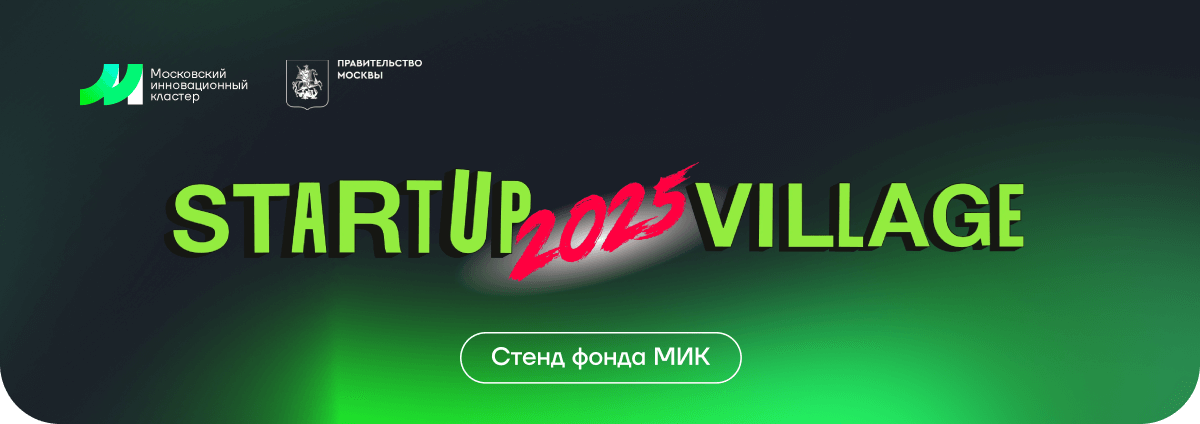
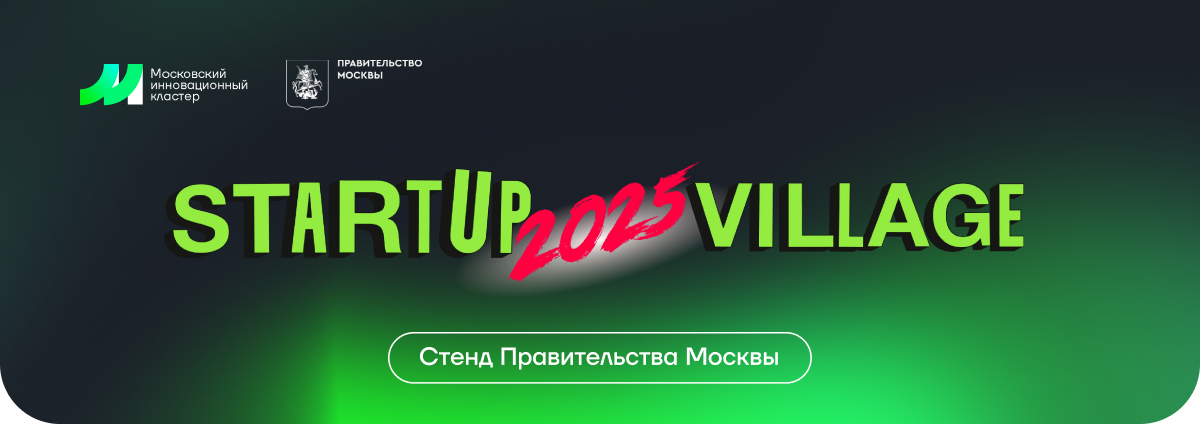
change mik-242

Changed region(s): [[0.3392, 0.7665, 0.6783, 0.9198], [0.3392, 0.7665, 0.4008, 0.7972]]

diff --git a/mik-242/QR.html b/mik-242/QR.html
@@ -102,7 +102,7 @@
                                         <tbody>
                                         <tr>
                                             <td style="width:600px;">
-                                                <img alt="Startup Village 2025. Стенд фонда МИК" height="auto" src="https://cp.unisender.com/ru/user_file?resource=images&user_id=5608985&name=mik-242-hero.png" style="border:0;display:block;outline:none;text-decoration:none;height:auto;width:100%;font-size:13px;" width="600" />
+                                                <img alt="Startup Village 2025. Стенд Правительства Москвы." height="auto" src="https://cp.unisender.com/ru/user_file?resource=images&user_id=5608985&name=mik-242-hero.png" style="border:0;display:block;outline:none;text-decoration:none;height:auto;width:100%;font-size:13px;" width="600" />
                                             </td>
                                         </tr>
                                         </tbody>
